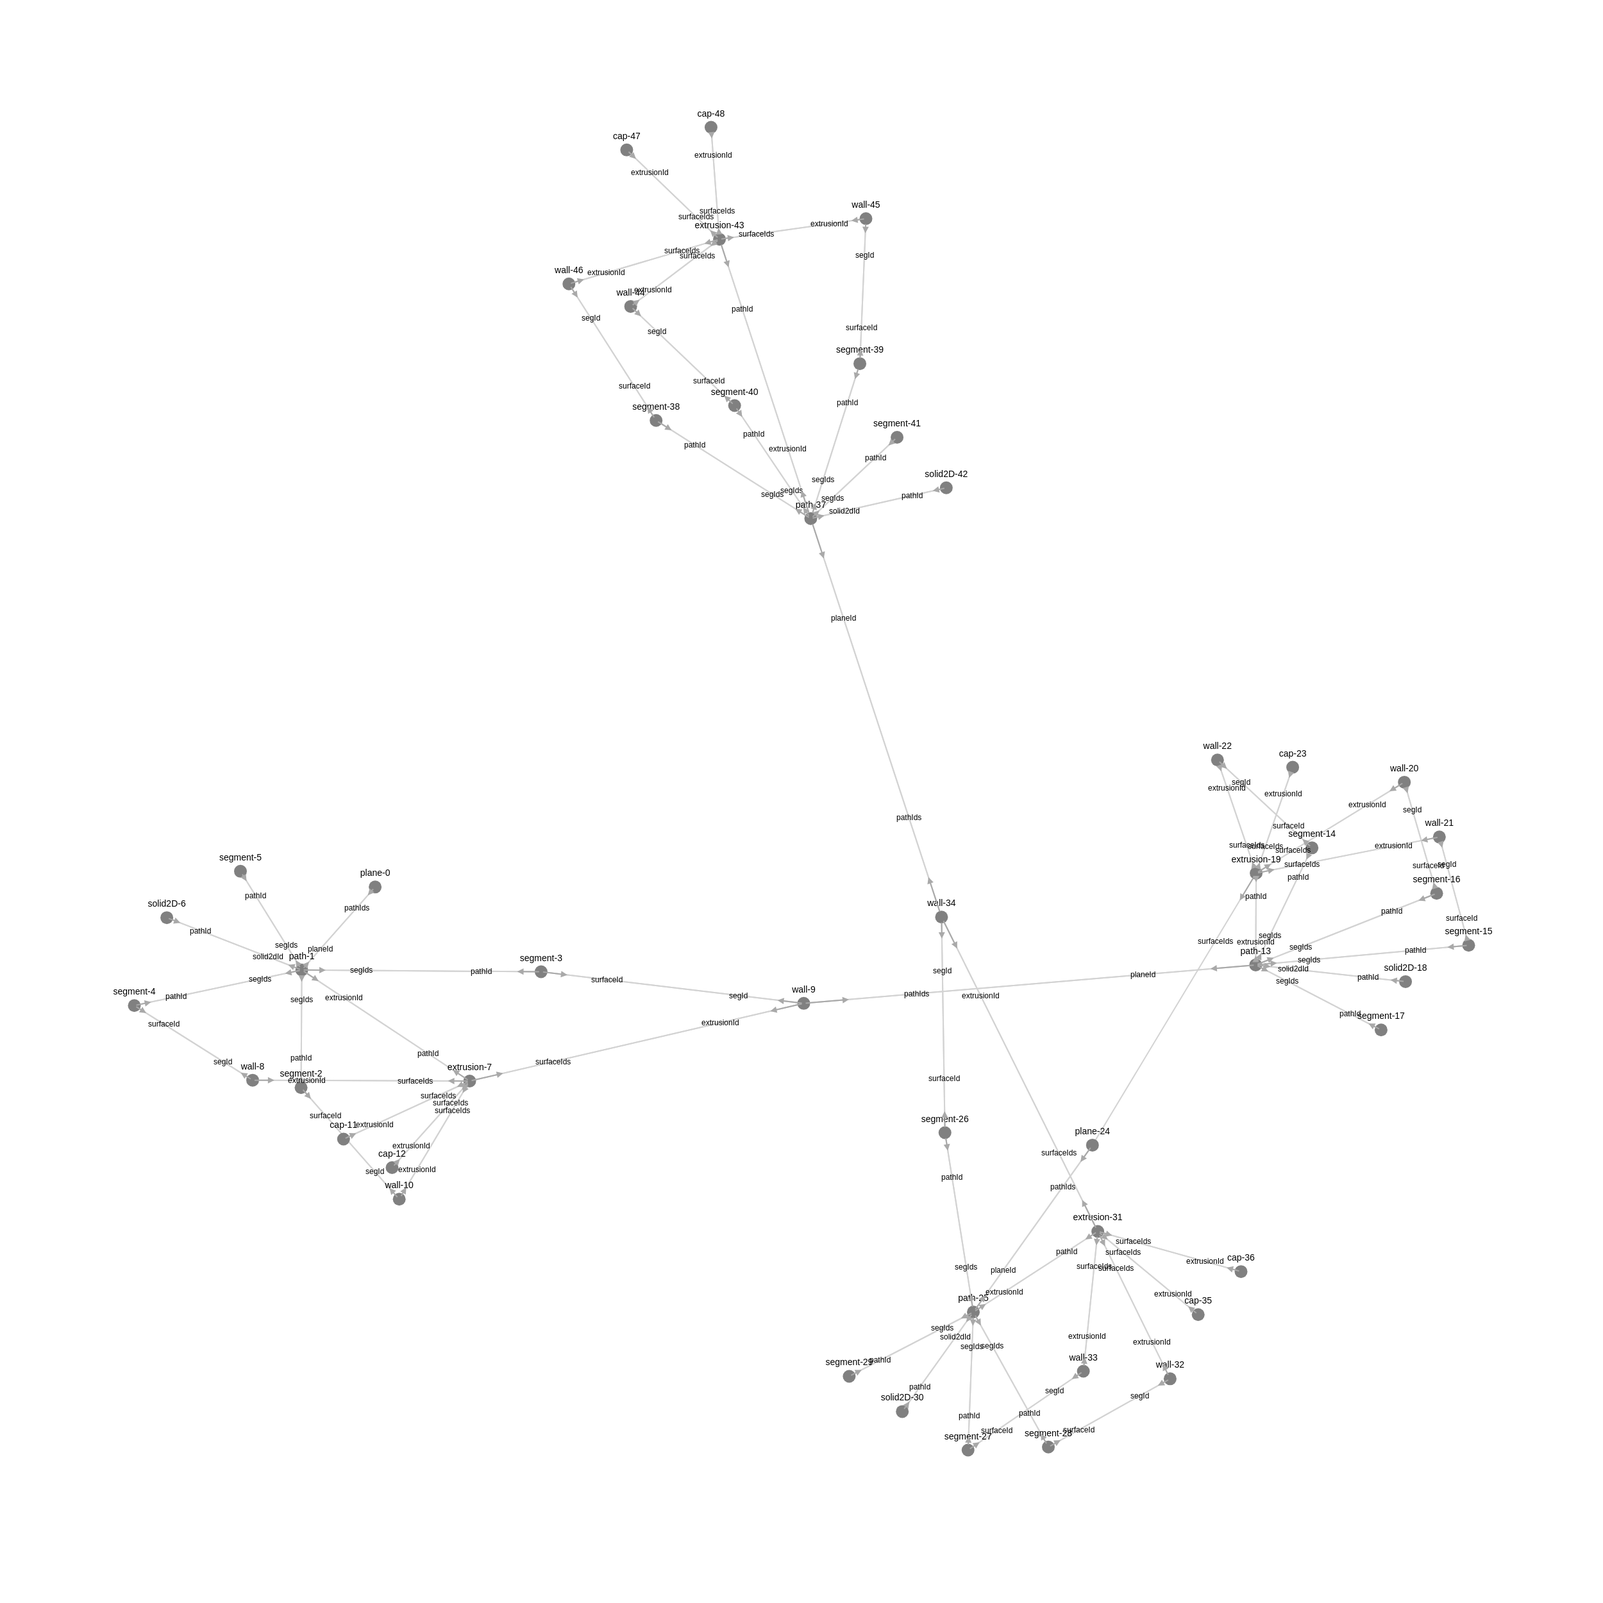
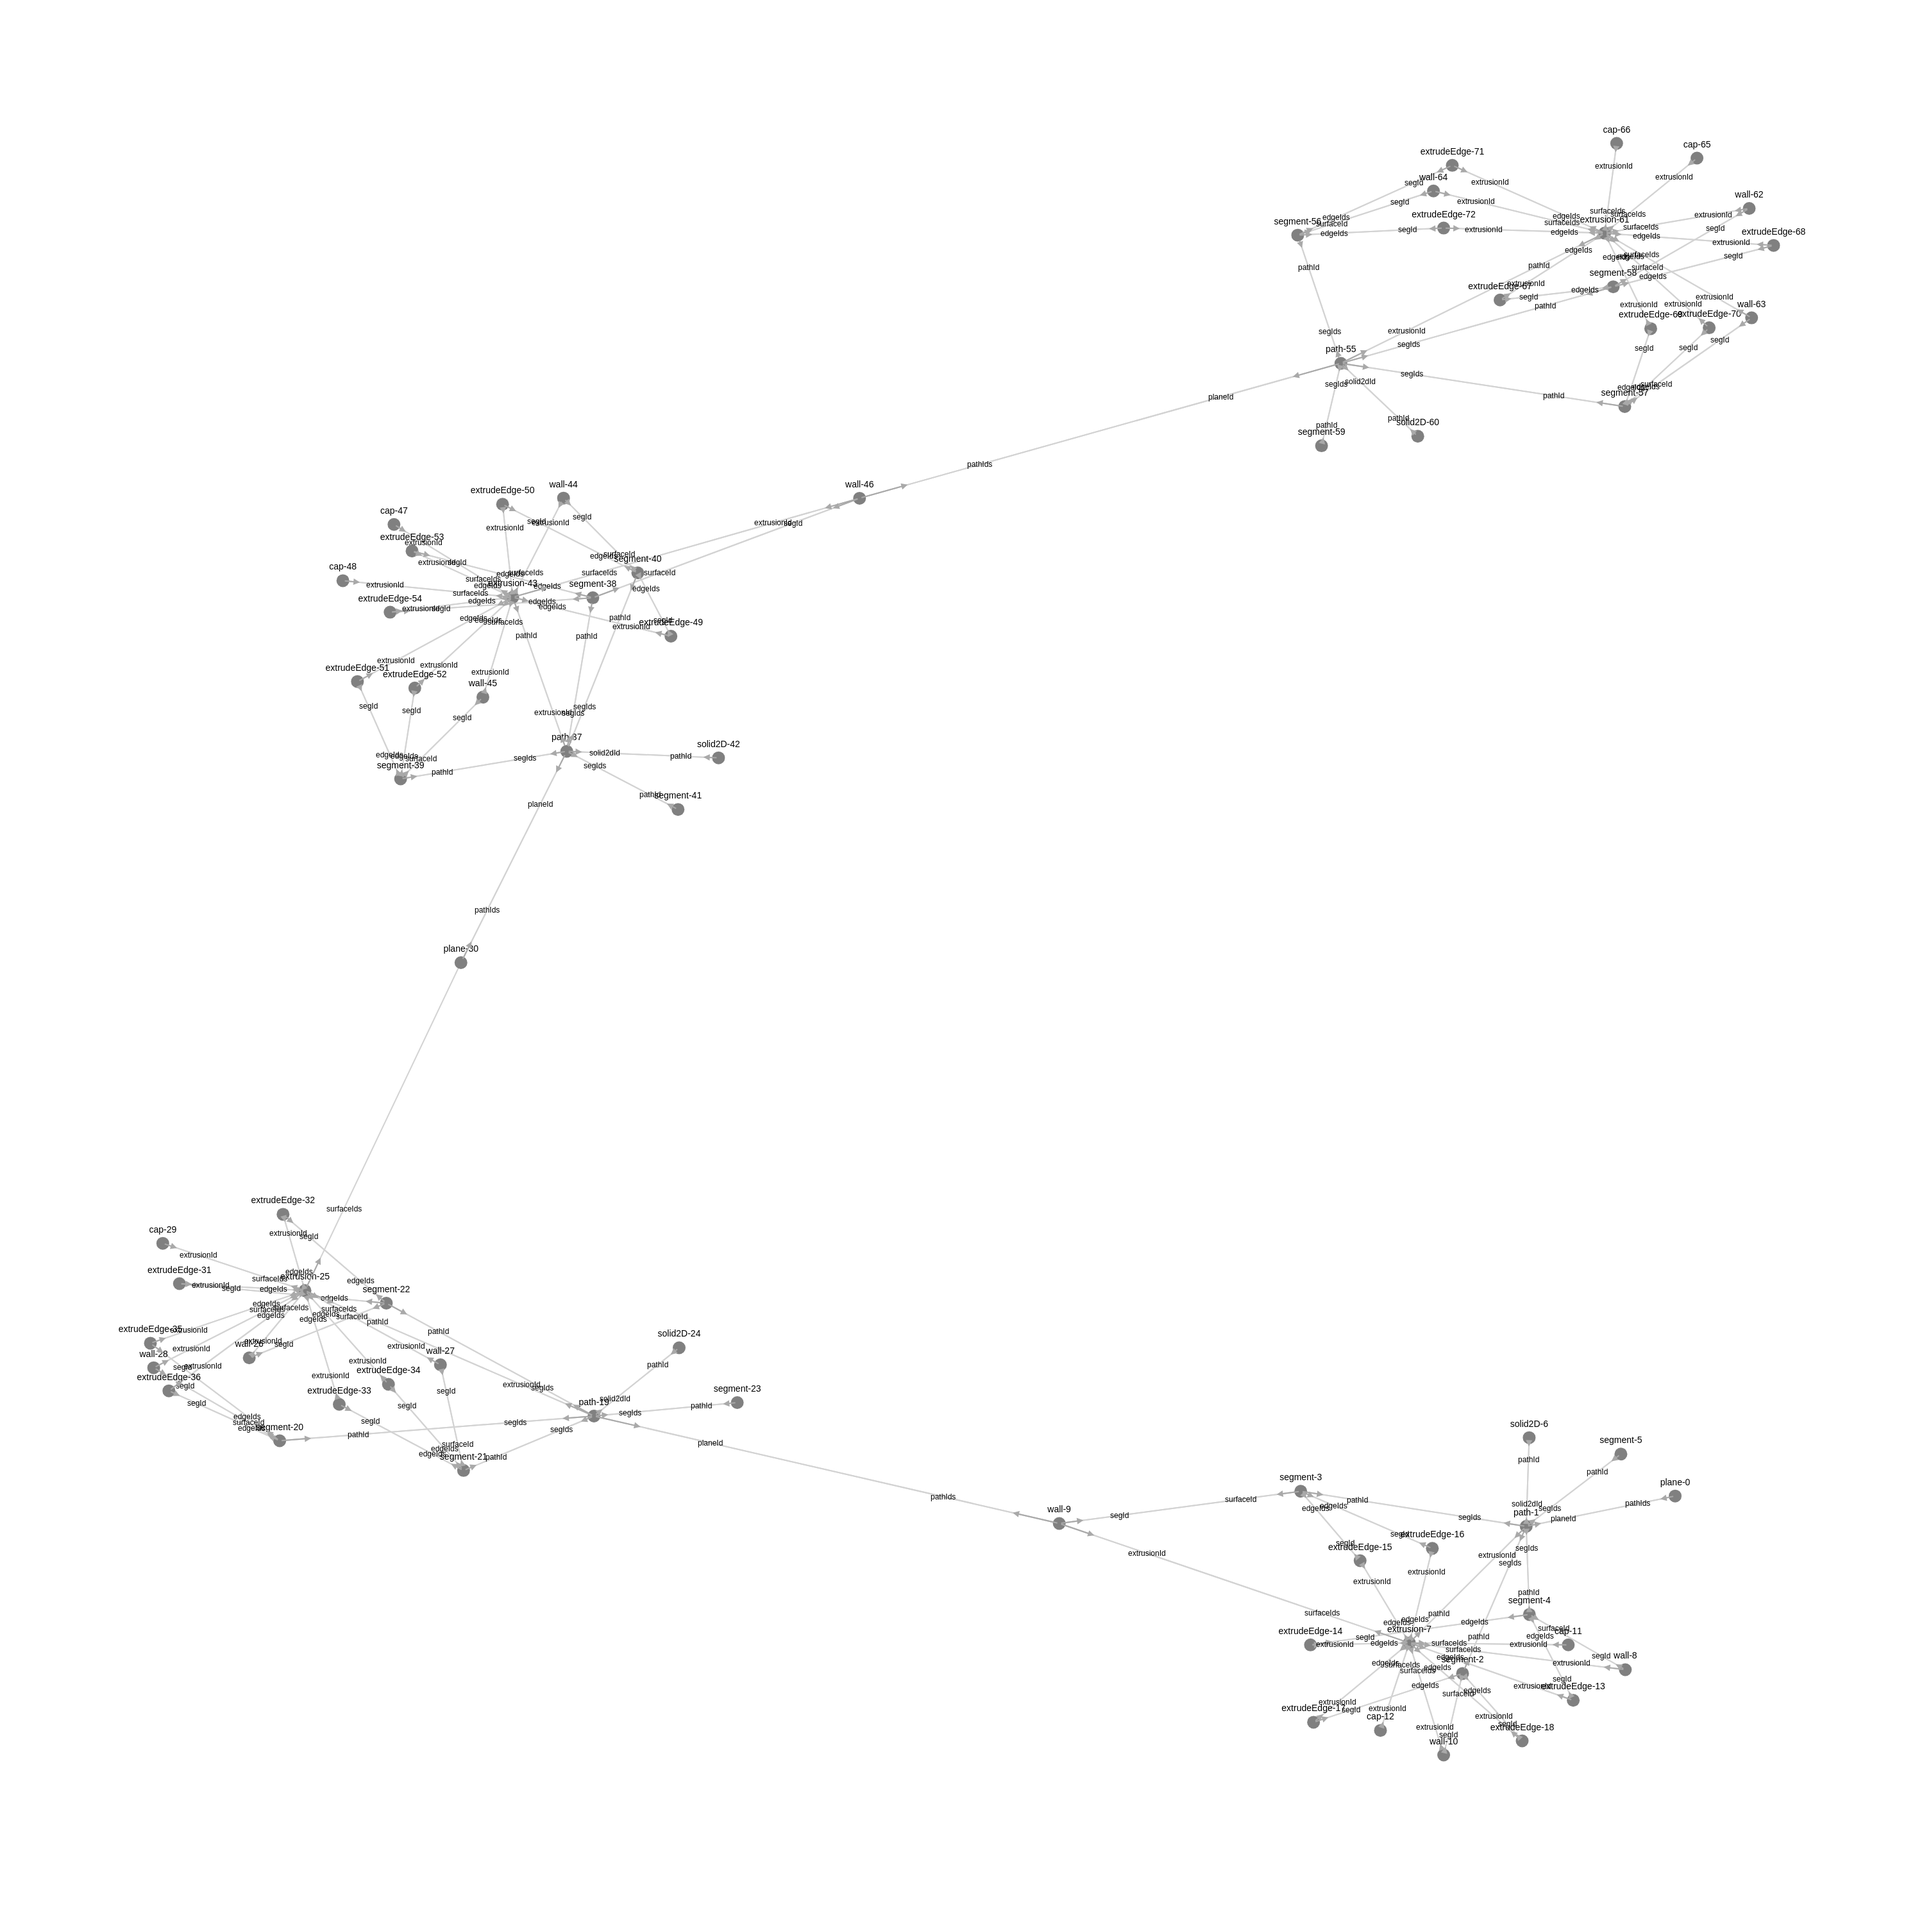
add edges to Artifact Graph (Fillet UI related) (#3675)
* add edges to artifact graph

* update graph snapshot sizes (too cluttered

* fix adjencent reverse issue

* add comments

* remove log

* Look at this (photo)Graph *in the voice of Nickelback*

* remove log

* remove silly debug

* make wasm-prep windows friendly

* don't swallow error

* more rust tweaks

* Increase test timeout

---------

diff --git a/src/lang/std/artifactGraph.test.ts b/src/lang/std/artifactGraph.test.ts
@@ -247,7 +247,7 @@ describe('testing createArtifactGraph', () => {
       // of the edges refers to a non-existent node, the graph will throw.
       // further more we can check that each edge is bi-directional, if it's not
       // by checking the arrow heads going both ways, on the graph.
-      await GraphTheGraph(theMap, 1400, 1400, 'exampleCode1.png')
+      await GraphTheGraph(theMap, 2000, 2000, 'exampleCode1.png')
     }, 20000)
   })
 })
@@ -271,7 +271,7 @@ describe('capture graph of sketchOnFaceOnFace...', () => {
       // of the edges refers to a non-existent node, the graph will throw.
       // further more we can check that each edge is bi-directional, if it's not
       // by checking the arrow heads going both ways, on the graph.
-      await GraphTheGraph(theMap, 2500, 2500, 'sketchOnFaceOnFaceEtc.png')
+      await GraphTheGraph(theMap, 3000, 3000, 'sketchOnFaceOnFaceEtc.png')
     }, 20000)
   })
 })
@@ -603,7 +603,7 @@ describe('testing getArtifactsToUpdate', () => {
         type: 'segment',
         pathId: expect.any(String),
         surfaceId: expect.any(String),
-        edgeIds: [],
+        edgeIds: expect.any(Array),
         codeRef: {
           range: [98, 125],
           pathToNode: [['body', '']],
@@ -623,7 +623,7 @@ describe('testing getArtifactsToUpdate', () => {
         type: 'segment',
         pathId: expect.any(String),
         surfaceId: expect.any(String),
-        edgeIds: [],
+        edgeIds: expect.any(Array),
         codeRef: {
           range: [162, 209],
           pathToNode: [['body', '']],
@@ -633,7 +633,7 @@ describe('testing getArtifactsToUpdate', () => {
         type: 'extrusion',
         pathId: expect.any(String),
         surfaceIds: expect.any(Array),
-        edgeIds: [],
+        edgeIds: expect.any(Array),
         codeRef: {
           range: [243, 266],
           pathToNode: [['body', '']],
@@ -650,7 +650,7 @@ describe('testing getArtifactsToUpdate', () => {
         type: 'segment',
         pathId: expect.any(String),
         surfaceId: expect.any(String),
-        edgeIds: [],
+        edgeIds: expect.any(Array),
         codeRef: {
           range: [131, 156],
           pathToNode: [['body', '']],
@@ -660,7 +660,7 @@ describe('testing getArtifactsToUpdate', () => {
         type: 'extrusion',
         pathId: expect.any(String),
         surfaceIds: expect.any(Array),
-        edgeIds: [],
+        edgeIds: expect.any(Array),
         codeRef: {
           range: [243, 266],
           pathToNode: [['body', '']],
@@ -677,7 +677,7 @@ describe('testing getArtifactsToUpdate', () => {
         type: 'segment',
         pathId: expect.any(String),
         surfaceId: expect.any(String),
-        edgeIds: [],
+        edgeIds: expect.any(Array),
         codeRef: {
           range: [98, 125],
           pathToNode: [['body', '']],
@@ -688,7 +688,7 @@ describe('testing getArtifactsToUpdate', () => {
         type: 'extrusion',
         pathId: expect.any(String),
         surfaceIds: expect.any(Array),
-        edgeIds: [],
+        edgeIds: expect.any(Array),
         codeRef: {
           range: [243, 266],
           pathToNode: [['body', '']],
@@ -705,7 +705,7 @@ describe('testing getArtifactsToUpdate', () => {
         type: 'segment',
         pathId: expect.any(String),
         surfaceId: expect.any(String),
-        edgeIds: [],
+        edgeIds: expect.any(Array),
         codeRef: {
           range: [76, 92],
           pathToNode: [['body', '']],
@@ -715,7 +715,7 @@ describe('testing getArtifactsToUpdate', () => {
         type: 'extrusion',
         pathId: expect.any(String),
         surfaceIds: expect.any(Array),
-        edgeIds: [],
+        edgeIds: expect.any(Array),
         codeRef: {
           range: [243, 266],
           pathToNode: [['body', '']],
@@ -732,7 +732,7 @@ describe('testing getArtifactsToUpdate', () => {
         type: 'extrusion',
         pathId: expect.any(String),
         surfaceIds: expect.any(Array),
-        edgeIds: [],
+        edgeIds: expect.any(Array),
         codeRef: {
           range: [243, 266],
           pathToNode: [['body', '']],
@@ -749,7 +749,7 @@ describe('testing getArtifactsToUpdate', () => {
         type: 'extrusion',
         pathId: expect.any(String),
         surfaceIds: expect.any(Array),
-        edgeIds: [],
+        edgeIds: expect.any(Array),
         codeRef: {
           range: [243, 266],
           pathToNode: [['body', '']],

diff --git a/src/lang/std/artifactGraph.ts b/src/lang/std/artifactGraph.ts
@@ -91,7 +91,7 @@ interface ExtrudeEdge {
   type: 'extrudeEdge'
   segId: string
   extrusionId: string
-  edgeId: string
+  subType: 'opposite' | 'adjacent'
 }
 
 /** A edgeCut is a more generic term for both fillet or chamfer */
@@ -422,6 +422,56 @@ export function getArtifactsToUpdate({
       }
     })
     return returnArr
+  } else if (
+    // is opposite edge
+    (cmd.type === 'solid3d_get_opposite_edge' &&
+      response.type === 'modeling' &&
+      response.data.modeling_response.type === 'solid3d_get_opposite_edge' &&
+      response.data.modeling_response.data.edge) ||
+    // or is adjacent edge
+    (cmd.type === 'solid3d_get_prev_adjacent_edge' &&
+      response.type === 'modeling' &&
+      response.data.modeling_response.type ===
+        'solid3d_get_prev_adjacent_edge' &&
+      response.data.modeling_response.data.edge)
+  ) {
+    const wall = getArtifact(cmd.face_id)
+    if (wall?.type !== 'wall') return returnArr
+    const extrusion = getArtifact(wall.extrusionId)
+    if (extrusion?.type !== 'extrusion') return returnArr
+    const path = getArtifact(extrusion.pathId)
+    if (path?.type !== 'path') return returnArr
+    const segment = getArtifact(cmd.edge_id)
+    if (segment?.type !== 'segment') return returnArr
+
+    return [
+      {
+        id: response.data.modeling_response.data.edge,
+        artifact: {
+          type: 'extrudeEdge',
+          subType:
+            cmd.type === 'solid3d_get_prev_adjacent_edge'
+              ? 'adjacent'
+              : 'opposite',
+          segId: cmd.edge_id,
+          extrusionId: path.extrusionId,
+        },
+      },
+      {
+        id: cmd.edge_id,
+        artifact: {
+          ...segment,
+          edgeIds: [response.data.modeling_response.data.edge],
+        },
+      },
+      {
+        id: path.extrusionId,
+        artifact: {
+          ...extrusion,
+          edgeIds: [response.data.modeling_response.data.edge],
+        },
+      },
+    ]
   } else if (cmd.type === 'solid3d_fillet_edge') {
     returnArr.push({
       id,
@@ -649,6 +699,18 @@ export function getWallCodeRef(
 ): CommonCommandProperties | Error {
   const seg = getArtifactOfTypes(
     { key: wall.segId, types: ['segment'] },
+    artifactGraph
+  )
+  if (err(seg)) return seg
+  return seg.codeRef
+}
+
+export function getExtrudeEdgeCodeRef(
+  edge: ExtrudeEdge,
+  artifactGraph: ArtifactGraph
+): CommonCommandProperties | Error {
+  const seg = getArtifactOfTypes(
+    { key: edge.segId, types: ['segment'] },
     artifactGraph
   )
   if (err(seg)) return seg

diff --git a/src/hooks/useEngineConnectionSubscriptions.ts b/src/hooks/useEngineConnectionSubscriptions.ts
@@ -9,6 +9,7 @@ import { useModelingContext } from './useModelingContext'
 import { getEventForSelectWithPoint } from 'lib/selections'
 import {
   getCapCodeRef,
+  getExtrudeEdgeCodeRef,
   getExtrusionFromSuspectedExtrudeSurface,
   getSolid2dCodeRef,
   getWallCodeRef,
@@ -60,6 +61,13 @@ export function useEngineConnectionSubscriptions() {
                 ? [codeRef.range]
                 : [codeRef.range, extrusion.codeRef.range]
             )
+          } else if (artifact?.type === 'extrudeEdge') {
+            const codeRef = getExtrudeEdgeCodeRef(
+              artifact,
+              engineCommandManager.artifactGraph
+            )
+            if (err(codeRef)) return
+            editorManager.setHighlightRange([codeRef.range])
           } else if (artifact?.type === 'segment') {
             editorManager.setHighlightRange([
               artifact?.codeRef?.range || [0, 0],

diff --git a/src/lib/selections.ts b/src/lib/selections.ts
@@ -33,6 +33,7 @@ import {
   getArtifactOfTypes,
   getArtifactsOfTypes,
   getCapCodeRef,
+  getExtrudeEdgeCodeRef,
   getSolid2dCodeRef,
   getWallCodeRef,
 } from 'lang/std/artifactGraph'
@@ -138,6 +139,20 @@ export async function getEventForSelectWithPoint({
       data: {
         selectionType: 'singleCodeCursor',
         selection: { range: _artifact.codeRef.range, type: 'default' },
+      },
+    }
+  }
+  if (_artifact.type === 'extrudeEdge') {
+    const codeRef = getExtrudeEdgeCodeRef(
+      _artifact,
+      engineCommandManager.artifactGraph
+    )
+    if (err(codeRef)) return null
+    return {
+      type: 'Set selection',
+      data: {
+        selectionType: 'singleCodeCursor',
+        selection: { range: codeRef.range, type: 'edge' },
       },
     }
   }

diff --git a/src/wasm-lib/kcl/src/std/extrude.rs b/src/wasm-lib/kcl/src/std/extrude.rs
@@ -181,6 +181,32 @@ pub(crate) async fn do_post_extrude(
         vec![]
     };
 
+    for face_info in face_infos.iter() {
+        if face_info.cap == kittycad::types::ExtrusionFaceCapType::None {
+            if let (Some(curve_id), Some(face_id)) = (face_info.curve_id, face_info.face_id) {
+                args.batch_modeling_cmd(
+                    uuid::Uuid::new_v4(),
+                    kittycad::types::ModelingCmd::Solid3DGetOppositeEdge {
+                        edge_id: curve_id,
+                        object_id: sketch_group.id,
+                        face_id,
+                    },
+                )
+                .await?;
+
+                args.batch_modeling_cmd(
+                    uuid::Uuid::new_v4(),
+                    kittycad::types::ModelingCmd::Solid3DGetPrevAdjacentEdge {
+                        edge_id: curve_id,
+                        object_id: sketch_group.id,
+                        face_id,
+                    },
+                )
+                .await?;
+            }
+        }
+    }
+
     // Create a hashmap for quick id lookup
     let mut face_id_map = std::collections::HashMap::new();
     // creating fake ids for start and end caps is to make extrudes mock-execute safe
